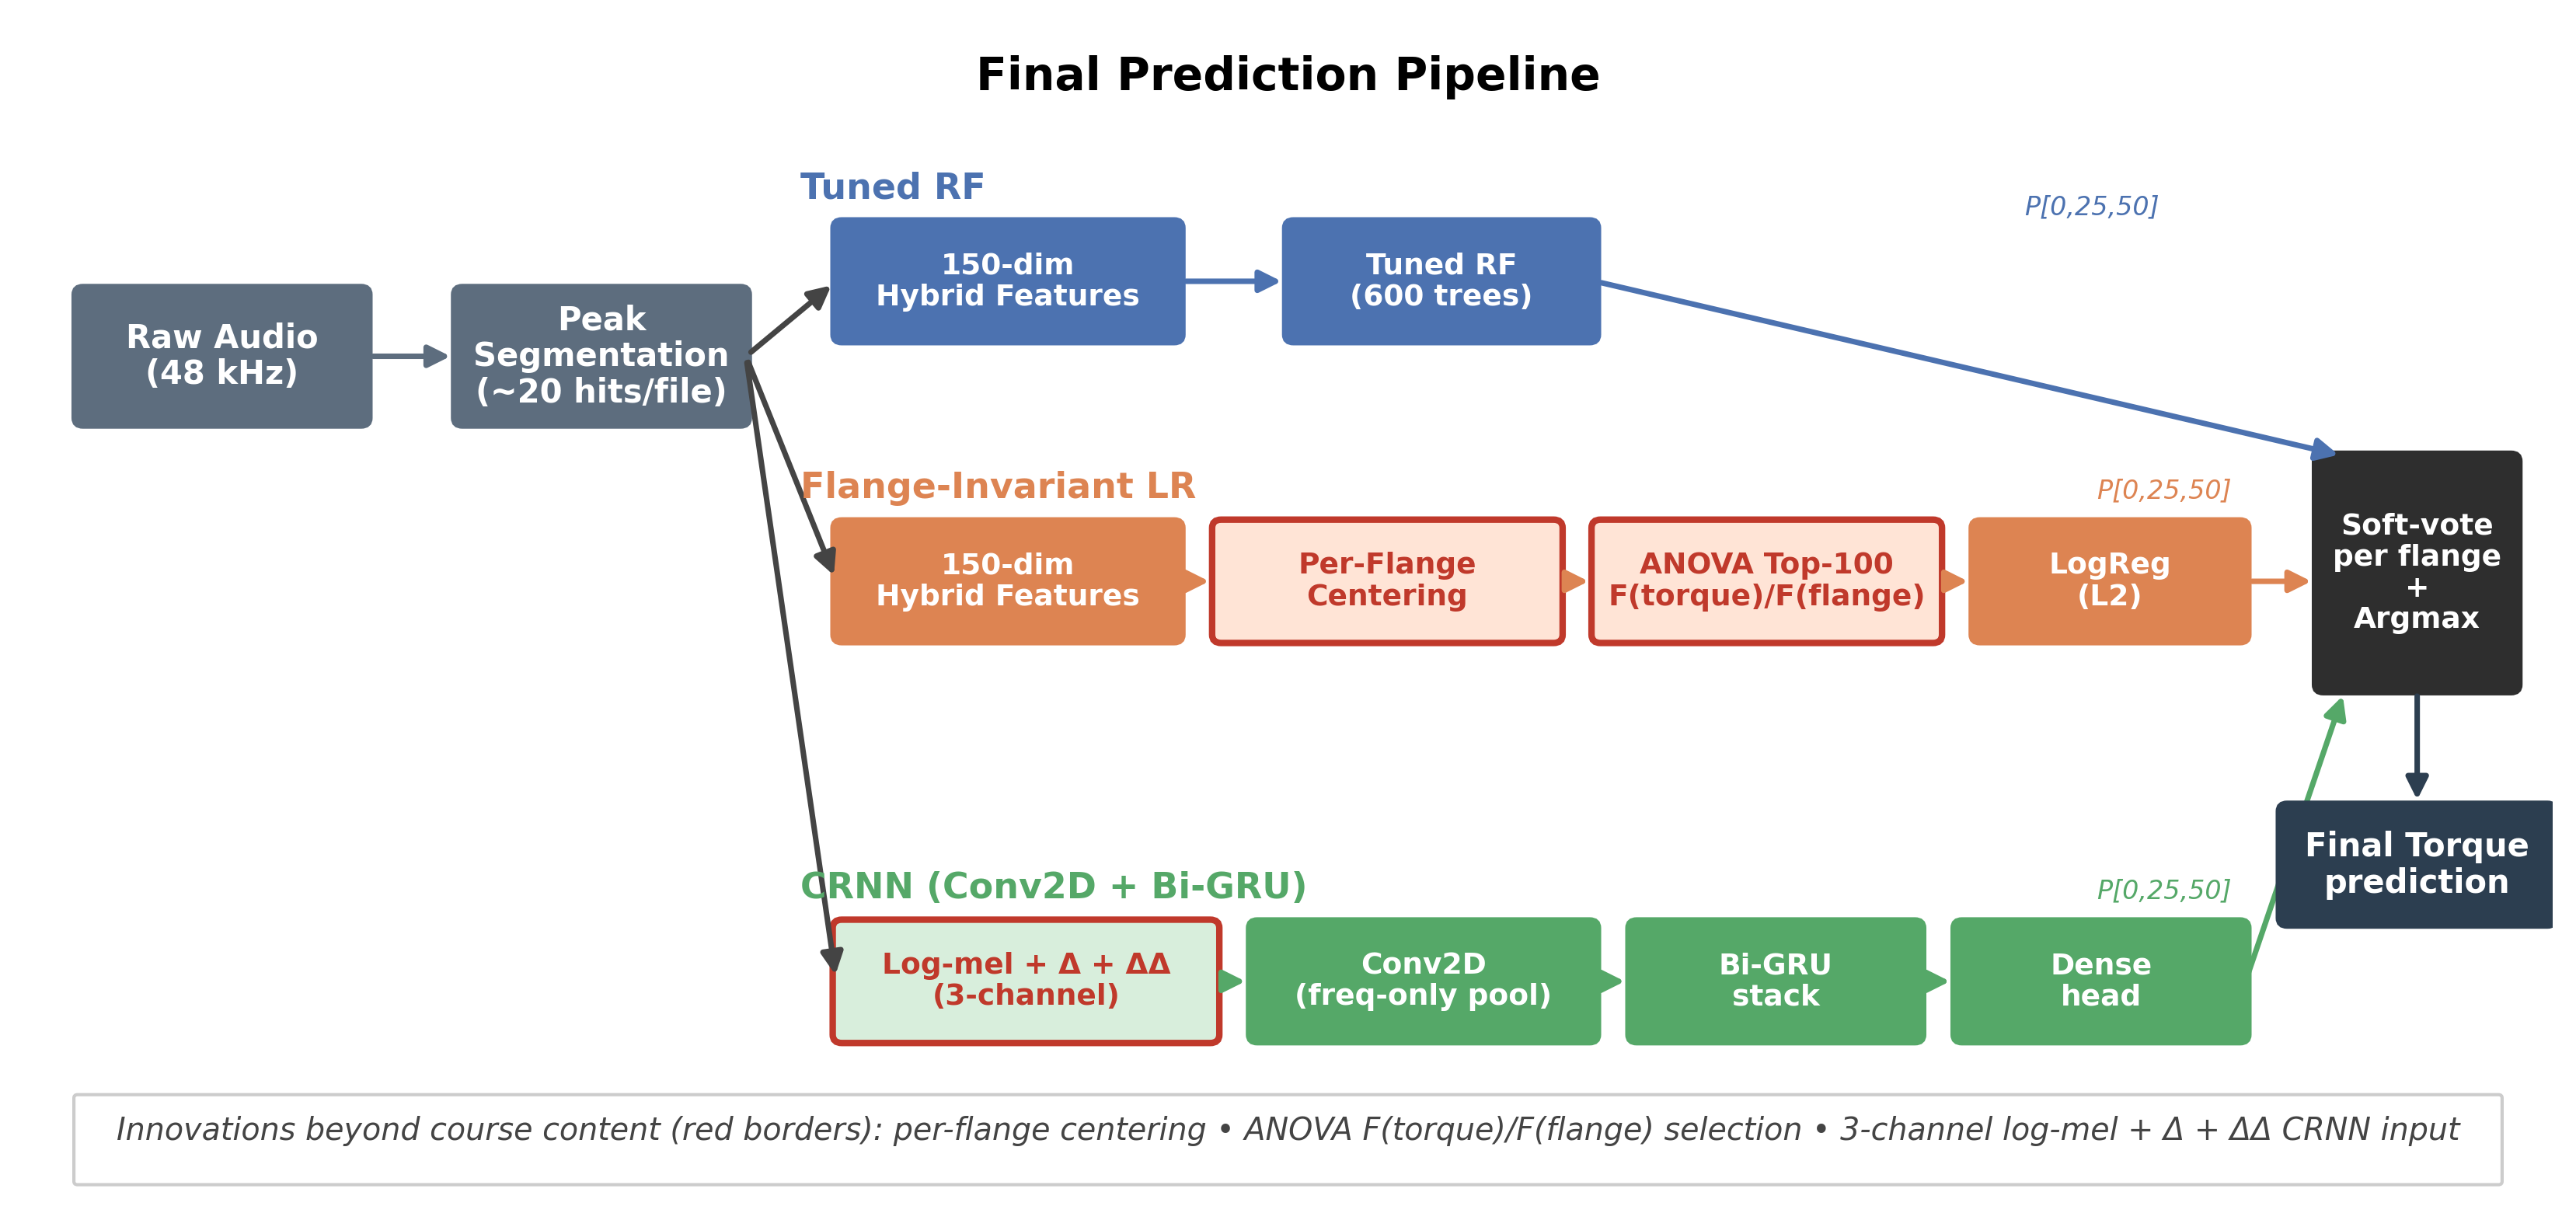
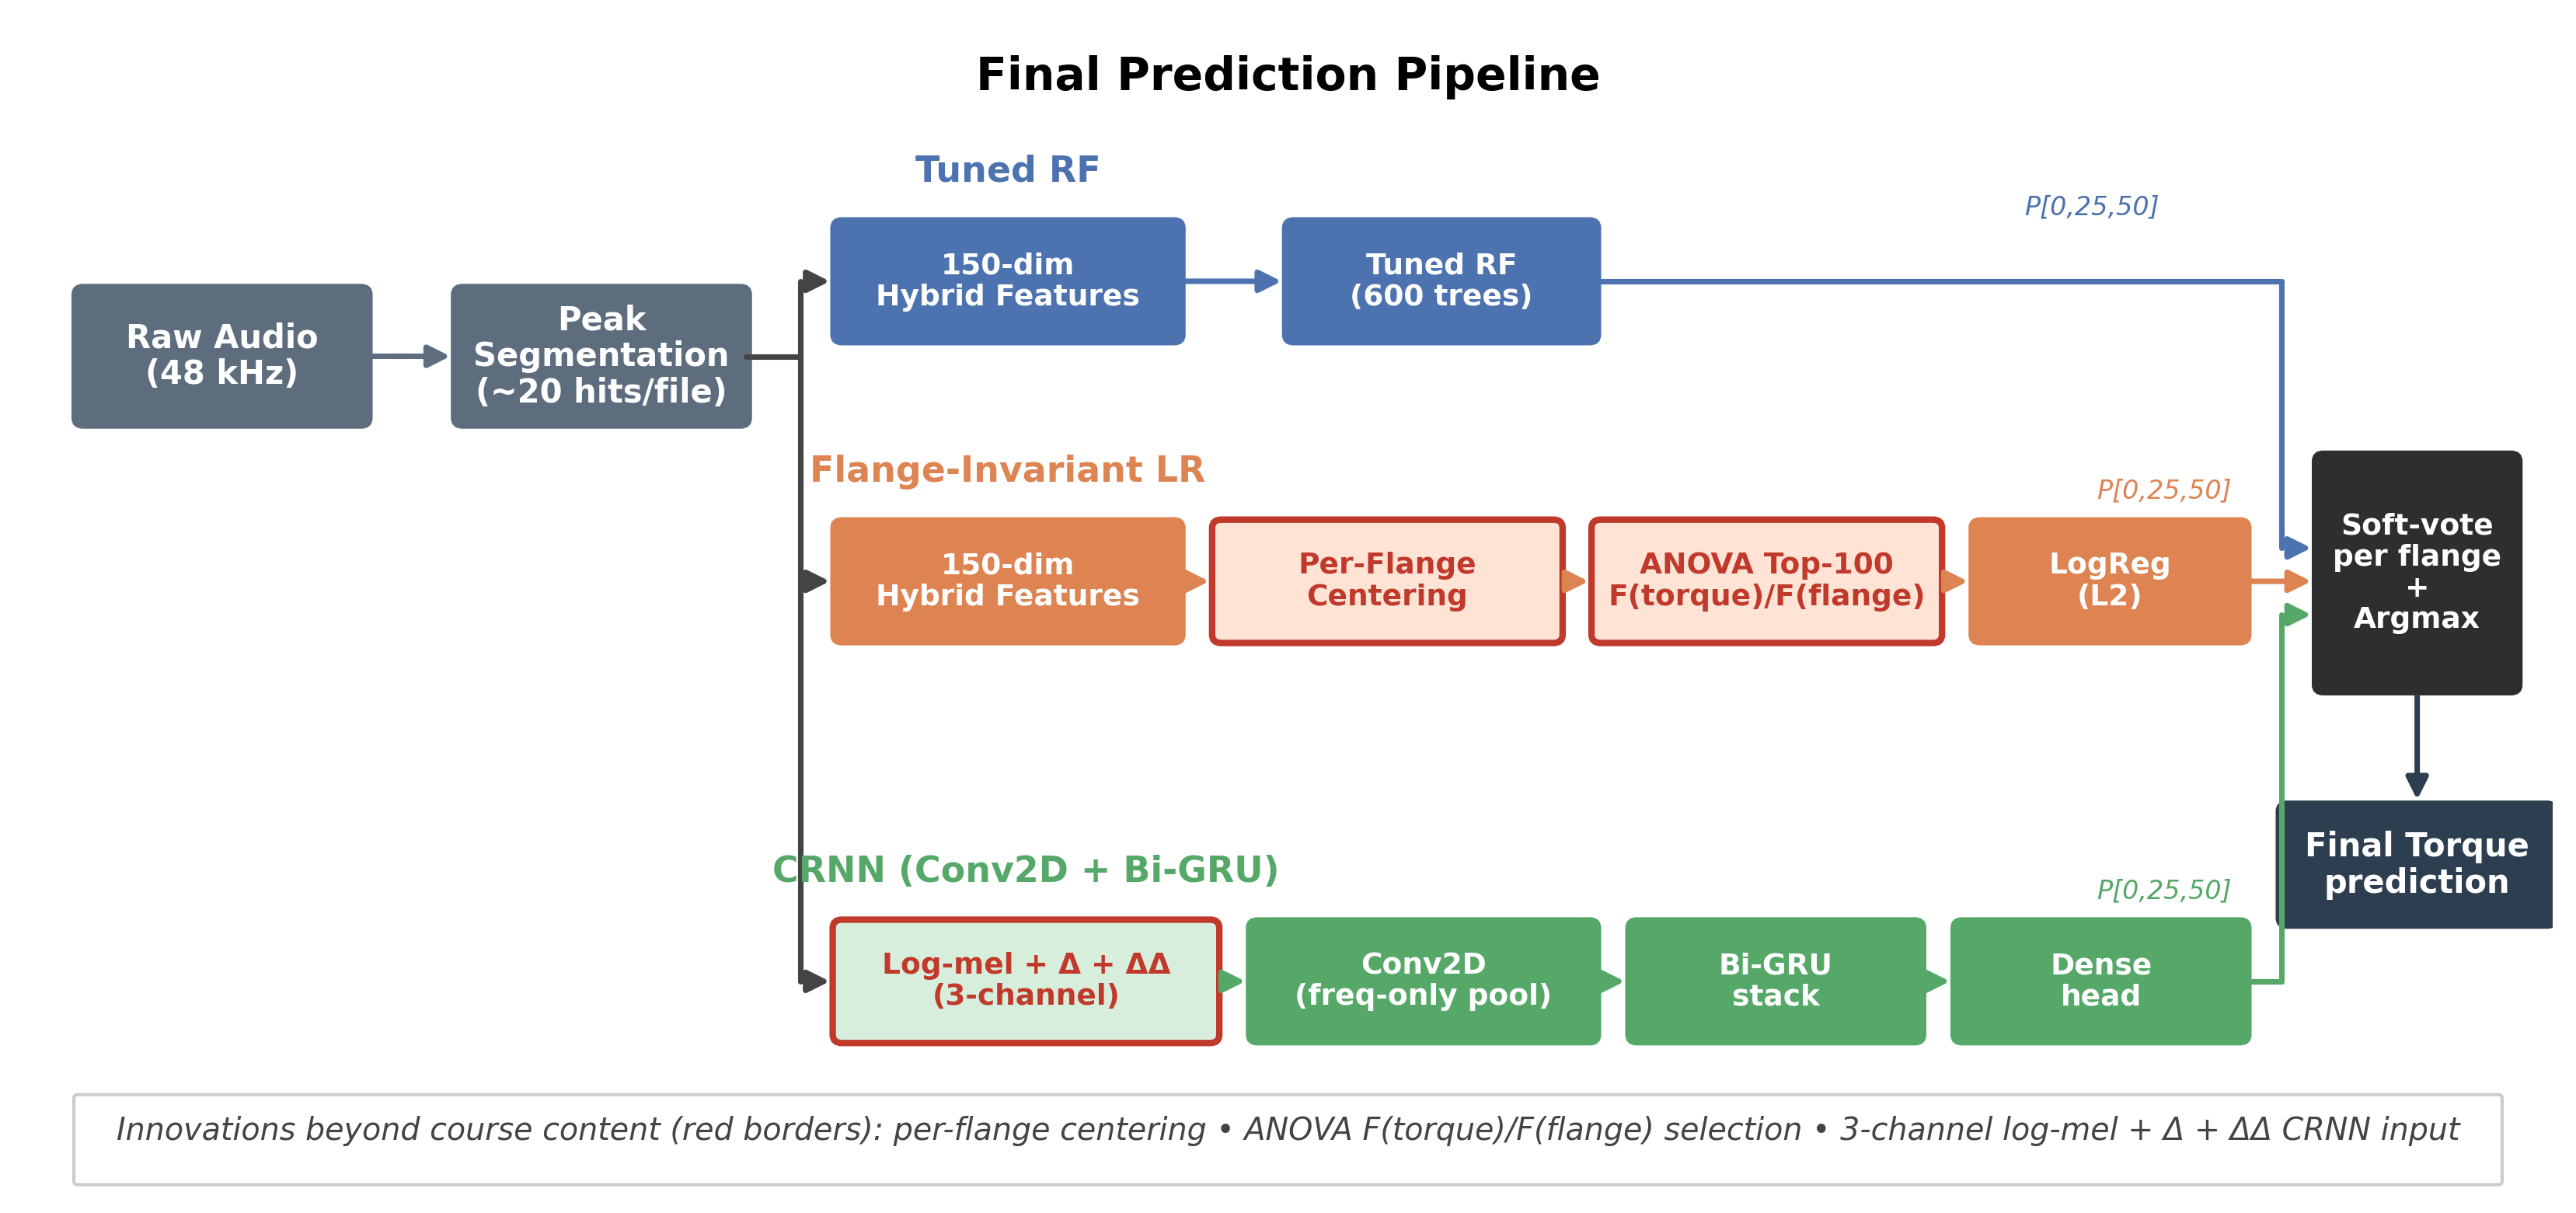
Flowchart cleanup: orthogonal routing + non-overlapping branch labels
The previous version had two issues: branch labels collided with the
diagonal arrows leaving Peak Segmentation, and the merge into Soft-vote
used three diagonal arrows that crossed each other.

Fixed by:
  - Centering each branch label above its row's first box (no longer at
    the arrow's tail position)
  - Replacing the diagonal fork from Peak Segmentation with a horizontal
    stem + vertical bar + three short horizontal arrows
  - Doing the same in reverse on the right side: each branch's last box
    routes right then up/down to merge cleanly into the Soft-vote box

https://claude.ai/code/session_018g4Unqb19ovNny5wNdtw4W

diff --git a/make_flowchart.py b/make_flowchart.py
@@ -53,10 +53,10 @@ box(0.3, 4.6, 1.6, 0.8, "Raw Audio\n(48 kHz)", COLOR_SHARED)
 box(2.4, 4.6, 1.6, 0.8, "Peak\nSegmentation\n(~20 hits/file)", COLOR_SHARED)
 arrow(1.9, 5.0, 2.4, 5.0, COLOR_SHARED)
 
-# === Branch labels (well above the box rows so they don't collide) ===
-ax.text(4.3, 5.95, "Tuned RF", ha="left", fontsize=11, fontweight="bold", color=COLOR_RF)
-ax.text(4.3, 4.15, "Flange-Invariant LR", ha="left", fontsize=11, fontweight="bold", color=COLOR_LR)
-ax.text(4.3, 1.75, "CRNN (Conv2D + Bi-GRU)", ha="left", fontsize=11, fontweight="bold", color=COLOR_CRNN)
+# === Branch labels (centered above each row's first box, far from arrow lines) ===
+ax.text(5.45, 6.05, "Tuned RF", ha="center", fontsize=11, fontweight="bold", color=COLOR_RF)
+ax.text(5.45, 4.25, "Flange-Invariant LR", ha="center", fontsize=11, fontweight="bold", color=COLOR_LR)
+ax.text(5.55, 1.85, "CRNN (Conv2D + Bi-GRU)", ha="center", fontsize=11, fontweight="bold", color=COLOR_CRNN)
 
 # Top branch: RF
 box(4.5, 5.1, 1.9, 0.7, "150-dim\nHybrid Features", COLOR_RF, fontsize=9)
@@ -80,10 +80,16 @@ box(6.8, 0.9, 1.9, 0.7, "Conv2D\n(freq-only pool)", COLOR_CRNN, fontsize=9)
 box(8.9, 0.9, 1.6, 0.7, "Bi-GRU\nstack", COLOR_CRNN, fontsize=9)
 box(10.7, 0.9, 1.6, 0.7, "Dense\nhead", COLOR_CRNN, fontsize=9)
 
-# Branching arrows from "Peak Segmentation"
-arrow(4.0, 5.0, 4.5, 5.45, "#444")
-arrow(4.0, 5.0, 4.5, 3.65, "#444")
-arrow(4.0, 5.0, 4.5, 1.25, "#444")
+# Orthogonal branching from "Peak Segmentation": short stem -> vertical bar -> 3 horizontal arrows
+JUNCTION_X = 4.3
+# Stem (no arrowhead): from Peak Seg right edge to the junction column
+ax.plot([4.0, JUNCTION_X], [5.0, 5.0], color="#444", linewidth=1.7, solid_capstyle="round")
+# Vertical fork bar covering all three row y-positions
+ax.plot([JUNCTION_X, JUNCTION_X], [1.25, 5.45], color="#444", linewidth=1.7, solid_capstyle="round")
+# Three horizontal arrows from the junction to each row's first feature box
+arrow(JUNCTION_X, 5.45, 4.5, 5.45, "#444")
+arrow(JUNCTION_X, 3.65, 4.5, 3.65, "#444")
+arrow(JUNCTION_X, 1.25, 4.5, 1.25, "#444")
 
 # Within-branch arrows
 # RF
@@ -106,10 +112,21 @@ ax.text(11.85, 1.75, "P[0,25,50]", ha="center", fontsize=8, color=COLOR_CRNN, st
 # Soft-vote box
 box(12.7, 3.0, 1.1, 1.4, "Soft-vote\nper flange\n+\nArgmax", COLOR_OUTPUT, fontsize=9)
 
-# Arrows from each branch end into soft-vote
-arrow(8.7, 5.45, 12.85, 4.4, COLOR_RF)
+# Orthogonal feed-in arrows: each branch's last box -> right edge -> vertical merge column -> Soft-vote
+MERGE_X = 12.5
+
+# Top branch (RF): last box right edge at (8.7, 5.45). Run right then down.
+ax.plot([8.7, MERGE_X], [5.45, 5.45], color=COLOR_RF, linewidth=1.7, solid_capstyle="round")
+ax.plot([MERGE_X, MERGE_X], [5.45, 3.85], color=COLOR_RF, linewidth=1.7, solid_capstyle="round")
+arrow(MERGE_X, 3.85, 12.7, 3.85, COLOR_RF)
+
+# Middle branch (LR): straight horizontal arrow into Soft-vote
 arrow(12.3, 3.65, 12.7, 3.65, COLOR_LR)
-arrow(12.3, 1.25, 12.85, 3.0, COLOR_CRNN)
+
+# Bottom branch (CRNN): last box right edge at (12.3, 1.25). Run up to Soft-vote bottom.
+ax.plot([12.3, MERGE_X], [1.25, 1.25], color=COLOR_CRNN, linewidth=1.7, solid_capstyle="round")
+ax.plot([MERGE_X, MERGE_X], [1.25, 3.45], color=COLOR_CRNN, linewidth=1.7, solid_capstyle="round")
+arrow(MERGE_X, 3.45, 12.7, 3.45, COLOR_CRNN)
 
 # Final output below soft-vote
 box(12.5, 1.6, 1.5, 0.7, "Final Torque\nprediction", "#2C3E50", fontsize=10)